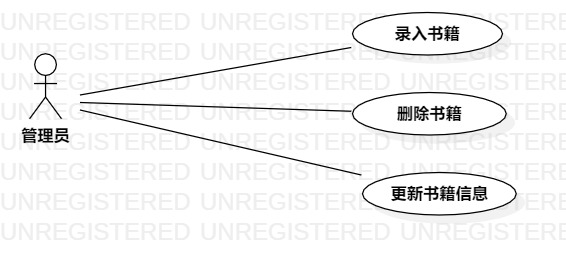
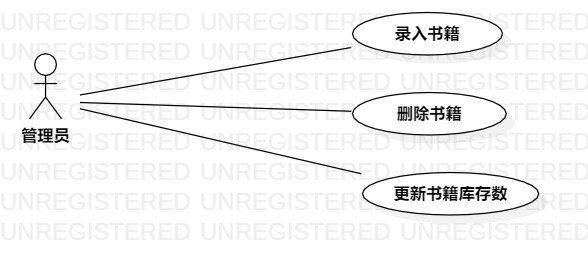
#3 #403 实验三：过程建模

diff --git a/students/1714080902201/lab2.md b/students/1714080902201/lab2.md
@@ -40,11 +40,13 @@
 基本流程  | 1. 管理员点击录入书籍按钮；  |*用例执行成功的步骤*    
 ~| 2. 系统显示录入书籍页面；  |   
 ~| 3. 管理员输入书籍信息（书名、作者、封面、ISBN编号、出版社和库存量），点击确认按钮；  |   
-~| 4. 系统查询书籍信息，检查书籍的ISBN编号不存在，保存录入书籍信息；  |   
-~| 5. 系统显示书籍信息页面。  |  
-扩展流程  | 4.1 系统检查发现书籍的ISBN编号已存在，提示管理员“书籍已存在，无法录入”；  |*用例执行失败*    
-~| 4.2 系统检查发现书籍的库存量为负数，提示管理员“库存数不正确，无法录入”。  |  
-
+~| 4. 系统检查信息是否完整；  |   
+~| 5. 系统匹配书籍ISBN编号，ISBN编号不存在；  |  
+~| 6. 系统检查库存数正确性，库存数正确，系统录入书籍信息；  |   
+~| 7. 系统提示“录入成功”。  |   
+扩展流程  | 4.1 系统检查发现书籍信息不完整，提示“信息不完整”，返回步骤2；  |*用例执行失败*    
+~| 5.1 系统检查发现书籍的ISBN编号已存在，提示“书籍已存在”；  |  
+~| 6.1 系统检查发现书籍的库存量为负数或不为整数，提示“库存数不正确，无法录入”，返回步骤2。  |  
 
 
 ## 表2：删除书籍用例规约  
@@ -54,26 +56,29 @@
 用例名称  | 删除书籍  |   
 前置条件  | 管理员成功登录系统     | *可选*   
 后置条件  |      | *可选*   
-基本流程  | 1. 管理员点击搜索框，输入书名或ISBN编号；  |*用例执行成功的步骤*    
-~| 2. 系统查询书籍信息，显示书籍信息页面；  |   
-~| 3. 管理员点击书籍信息页面的删除按钮；  |   
-~| 4. 系统提示管理员“确认删除？”；  |   
-~| 5. 管理员点击确认按钮；  |
+基本流程  | 1. 管理员点击搜索框，输入ISBN编号；  |*用例执行成功的步骤*    
+~| 2. 系统查询书籍信息；  |   
+~| 3. 系统显示书籍信息页面；  |   
+~| 4. 管理员点击删除按钮；  |   
+~| 5. 系统提示“确认删除？”，管理员点击确认按钮；  |
 ~| 6. 系统删除书籍，提示管理员“删除书籍成功”。  |  
-扩展流程  | 2.1 系统检查发现书籍不存在，提示管理员“书籍不存在”。 |*用例执行失败*    
+扩展流程  | 2.1 系统检查发现ISBN编号不存在，提示“书籍不存在”； |*用例执行失败*    
+~| 5.1 管理员点击取消按钮，系统取消删除，返回步骤3。  |  
 
-## 表3：更新书籍信息用例规约  
+## 表3：更新书籍库存数用例规约  
 
 用例编号  | UC03 | 备注  
 -|:-|-  
-用例名称  | 更新书籍信息  |   
+用例名称  | 更新书籍库存数  |   
 前置条件  | 管理员成功登录系统     | *可选*   
 后置条件  |      | *可选*   
-基本流程  | 1. 管理员点击搜索框，输入书名或ISBN编号；  |*用例执行成功的步骤*    
-~| 2. 系统查询书籍信息，显示书籍信息页面；  |   
-~| 3. 管理员点击书籍信息页面的更新按钮；  |   
-~| 4. 系统提示管理员“确认更新？”；  |   
-~| 5. 管理员点击确认按钮；  |
-~| 6. 系统检查更新信息，更新书籍，提示管理员“更新书籍成功”。  |  
-扩展流程  | 2.1 系统检查发现书籍不存在，提示管理员“书籍不存在”；  |*用例执行失败*   
-~| 6.1 系统检查发现更新信息的库存量为负数，提示管理员“库存数不正确，无法更新”。 |   
+基本流程  | 1. 管理员点击搜索框，输入ISBN编号；  |*用例执行成功的步骤*    
+~| 2. 系统查询书籍信息；  |   
+~| 3. 系统显示书籍信息页面；  |   
+~| 4. 管理员点击更新库存按钮；  |   
+~| 5. 系统显示更新库存页面；  |   
+~| 6. 管理员输入库存数；  |
+~| 7. 系统检查库存数正确性，库存数正确，系统更新库存数；  |  
+~| 8. 提示管理员“更新库存成功”。  |
+扩展流程  | 2.1 系统检查发现书籍不存在，提示“书籍不存在”；  |*用例执行失败*   
+~| 7.1 系统检查发现库存数为负数或不为整数，提示“库存数不正确”，返回步骤5。 |   

diff --git a/students/1714080902201/lab3.md b/students/1714080902201/lab3.md
@@ -1,0 +1,31 @@
+# 实验
+
+## 一、实验目标
+1. 掌握过程建模方法
+2. 掌握活动图的画法（Activity Digram）
+
+## 二、实验内容
+1. 使用StarUML绘制个人选题的活动图
+2. 编写实验报告
+
+## 三、实验步骤
+1. 观看教学视频
+2. 修改实验二的用例规约
+3. 根据录入书籍用例规约绘制录入书籍活动图
+4. 根据删除书籍用例规约绘制删除书籍活动图
+5. 根据更新书籍库存数用例规约绘制更新书籍库存数活动图
+6. 编写实验报告
+
+
+# 四、实验结果
+![录入书籍活动图](./lab3_ActivityDiagram1.jpg)
+
+图1. 录入书籍活动图
+
+![删除书籍活动图](./lab3_ActivityDiagram2.jpg)
+
+图1. 删除书籍活动图
+
+![更新书籍库存数活动图](./lab3_ActivityDiagram3.jpg)
+
+图1. 更新书籍库存数活动图
